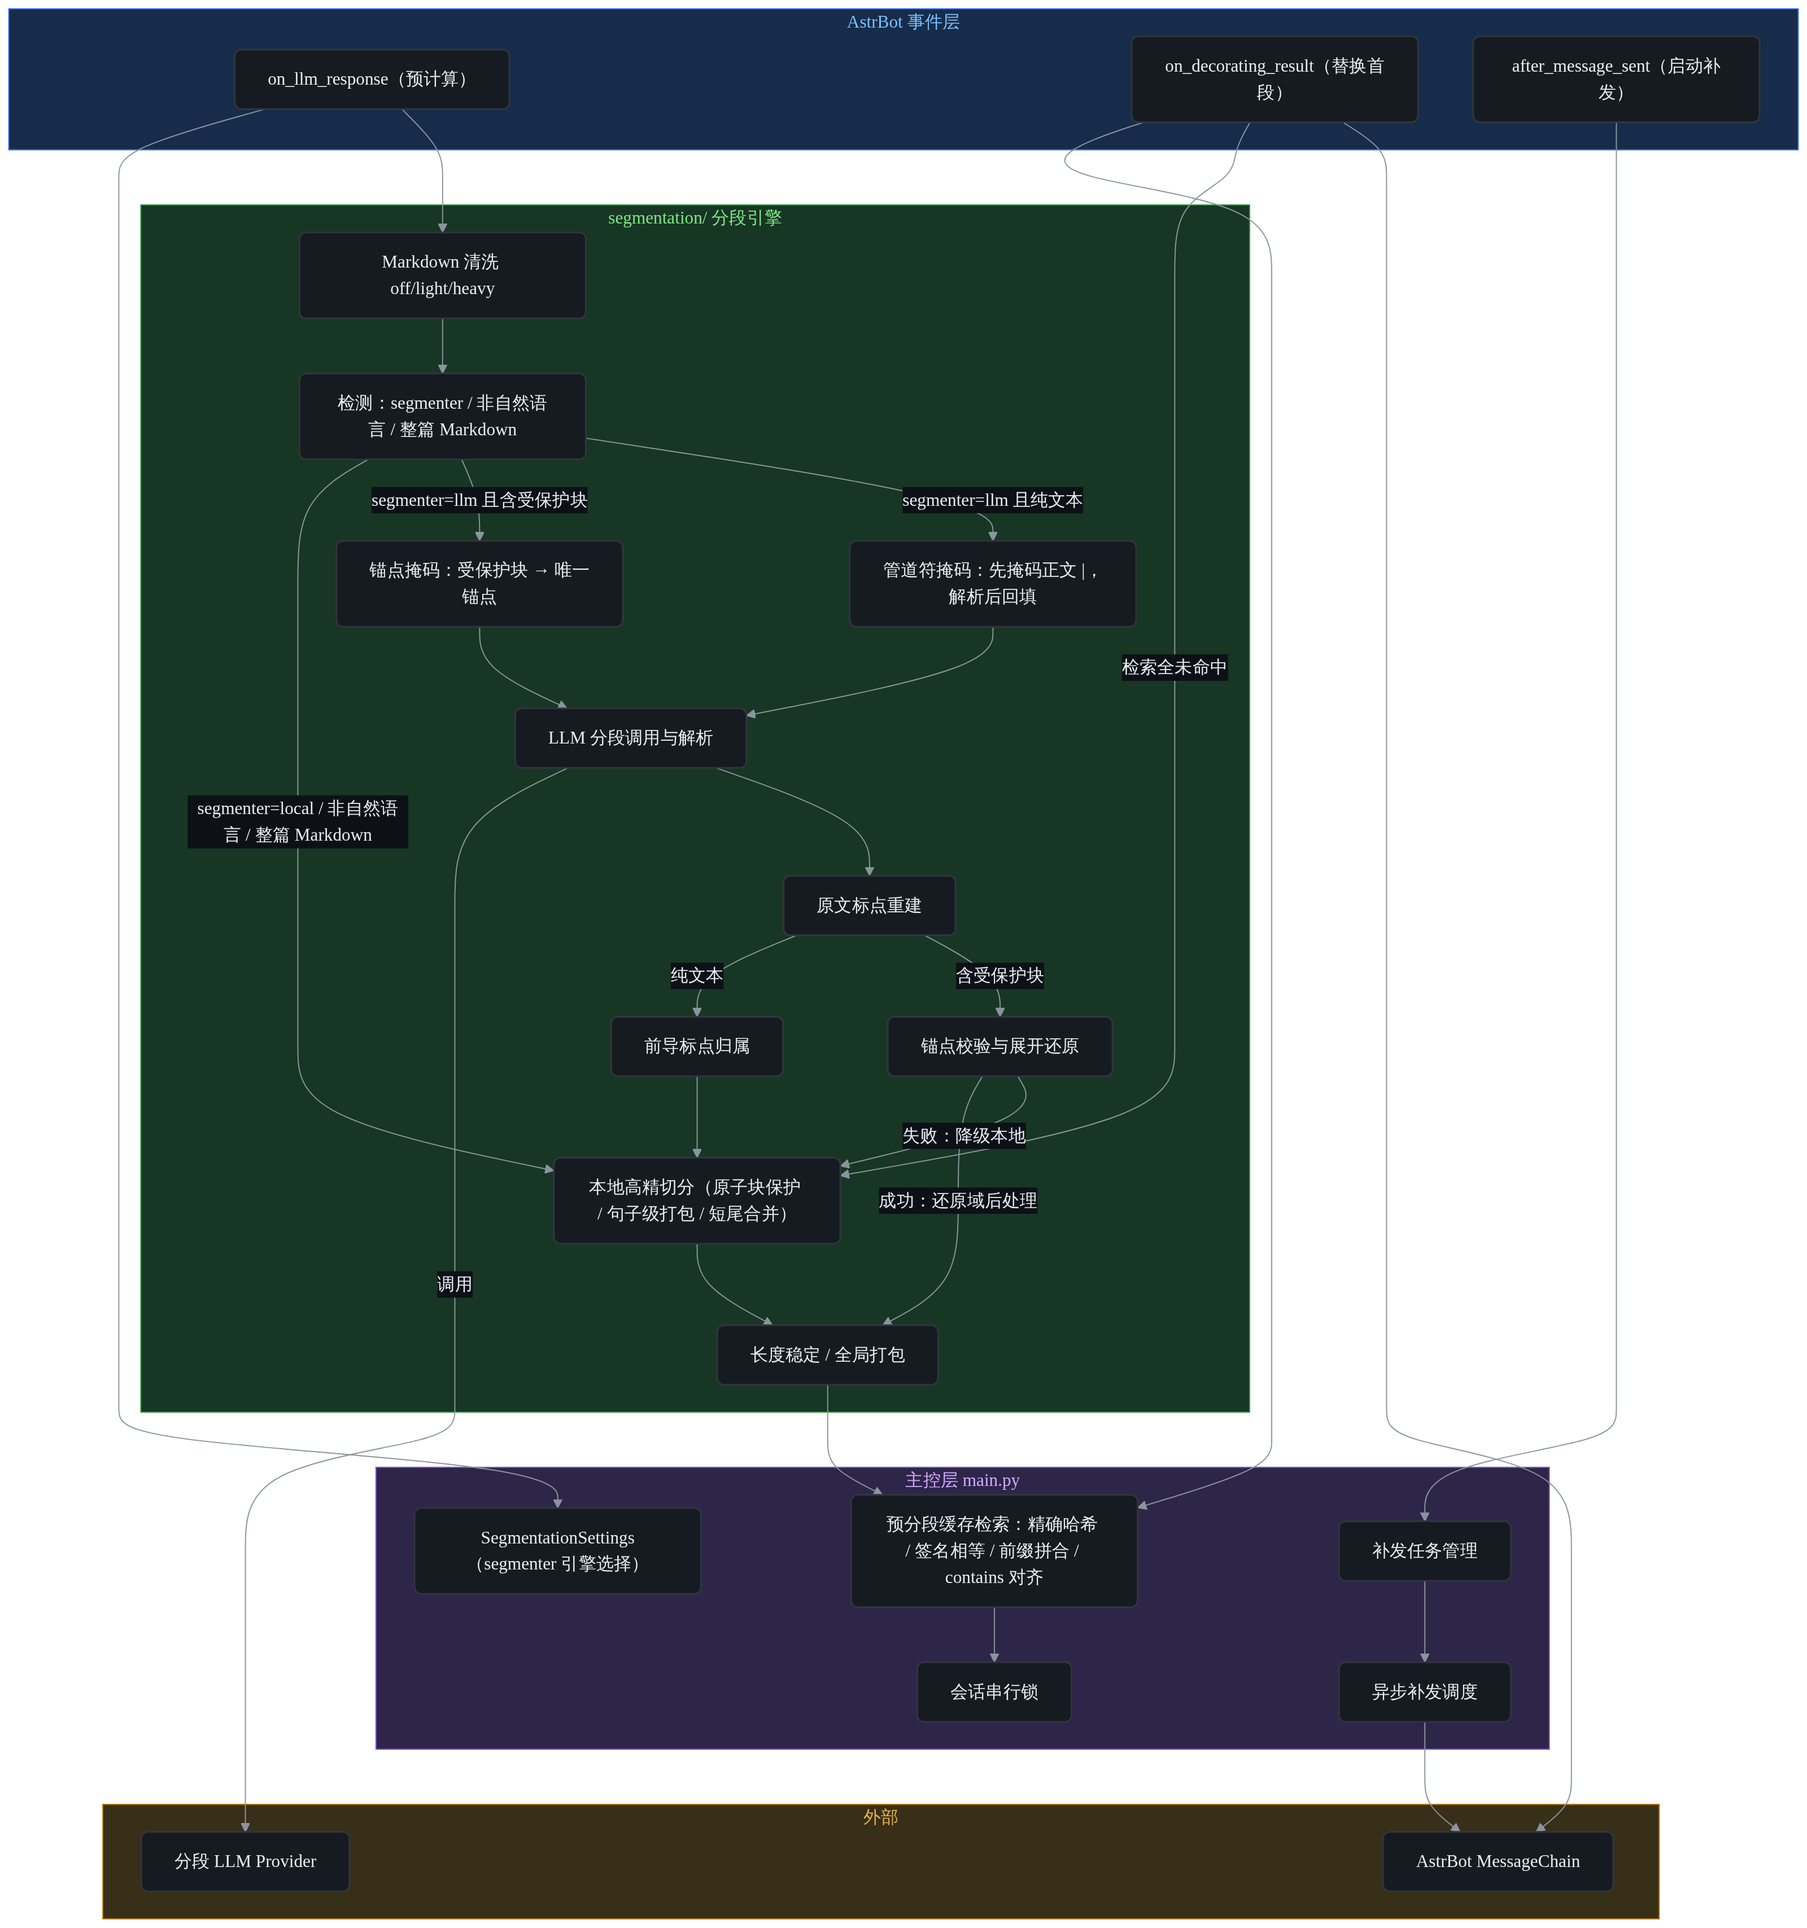
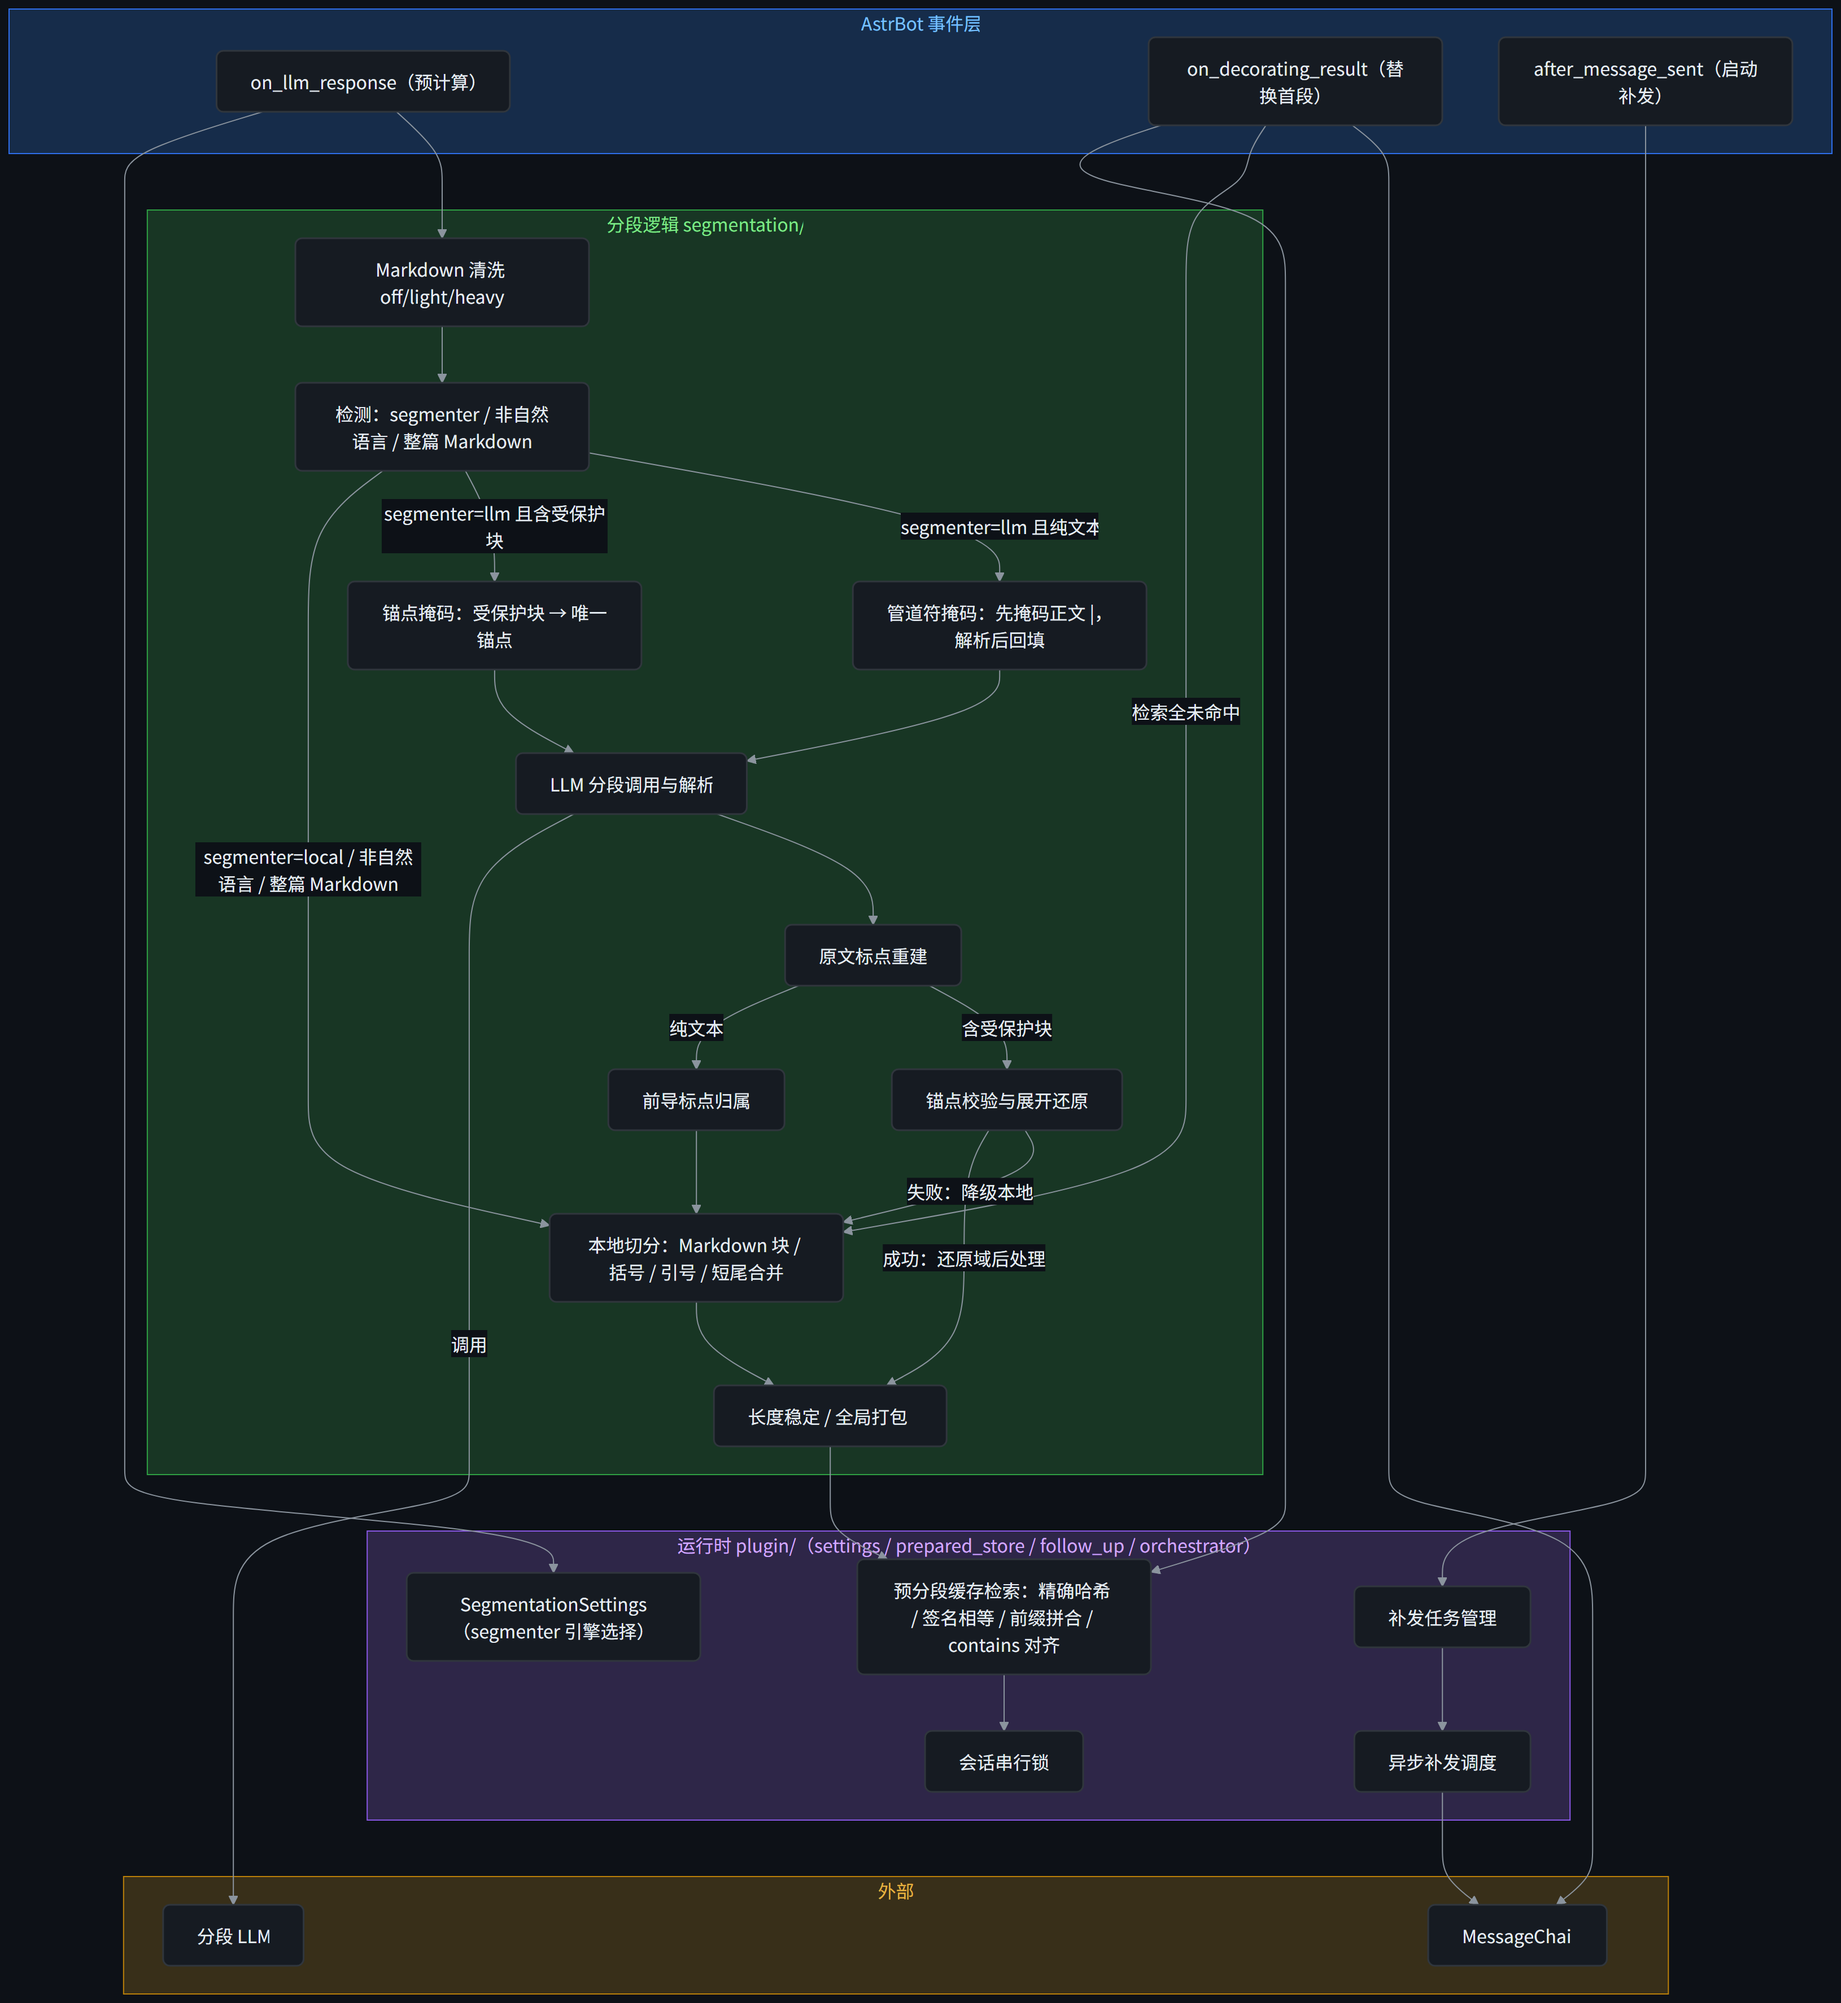
docs: 架构图同步 v1.5.1 运行时拆分与 v1.5.2 本地切分

diff --git a/README.md b/README.md
@@ -89,8 +89,9 @@
 - `on_decorating_result` 负责替换首段并登记补发，不直接发送剩余段。
 - `after_message_sent` 在首段发送成功后启动剩余段异步补发。
 - 缓存未命中时，`on_decorating_result` 会调用本地高精切分兜底。
+- 本地切分先识别 Markdown 结构块（代码块、表格、引用、列表等）与普通文本：结构块整体保留，普通文本可独立触发切分；括号与中英文引号内部不作为切点。
 - heavy 清洗使用内容保全式正则，保留链接 URL、行内代码与 JSON/代码块正文。
-- 分段引擎按职责拆分为 `segmentation/` 包：`core`（基础判断、归一化、哈希）、`protection`（结构保护与安全转义）、`markdown_clean`（Markdown 清洗）、`boundary`（候选切点与括号边界）、`packing`（目标长度与打包约束）、`local_split`（本地切分编排）、`delivery`（发送延迟）、`model_output`（LLM 协议、解析与重建）、`anchor`（受保护块锚点掩码与还原）；`__init__.py` 作为公开 API 门面，导入路径保持不变。
+- 分段引擎按职责拆分为 `segmentation/` 包：`core`（基础判断、归一化、哈希）、`protection`（结构保护、Markdown 块识别与安全转义）、`markdown_clean`（Markdown 清洗）、`boundary`（候选切点、括号与引号边界）、`packing`（目标长度与打包约束）、`local_split`（本地切分编排，Markdown 块与普通文本分离）、`delivery`（发送延迟）、`model_output`（LLM 协议、解析与重建）、`anchor`（受保护块锚点掩码与还原）；`__init__.py` 作为公开 API 门面，导入路径保持不变。
 - 插件运行时按职责拆分为 `plugin/` 包：`settings`（配置读取、净化与 segmenter 迁移）、`prepared_store`（分段缓存与对齐自愈）、`follow_up`（补发引擎与会话锁）、`orchestrator`（LLM 切分编排与 provider 解析）；四个 Mixin 组合进 `SmartSegmentationPlugin`，`main.py` 保留 Star 入口、hook 编排与公开 API 门面。
 
 ## 技术实现与 AI 辅助说明
